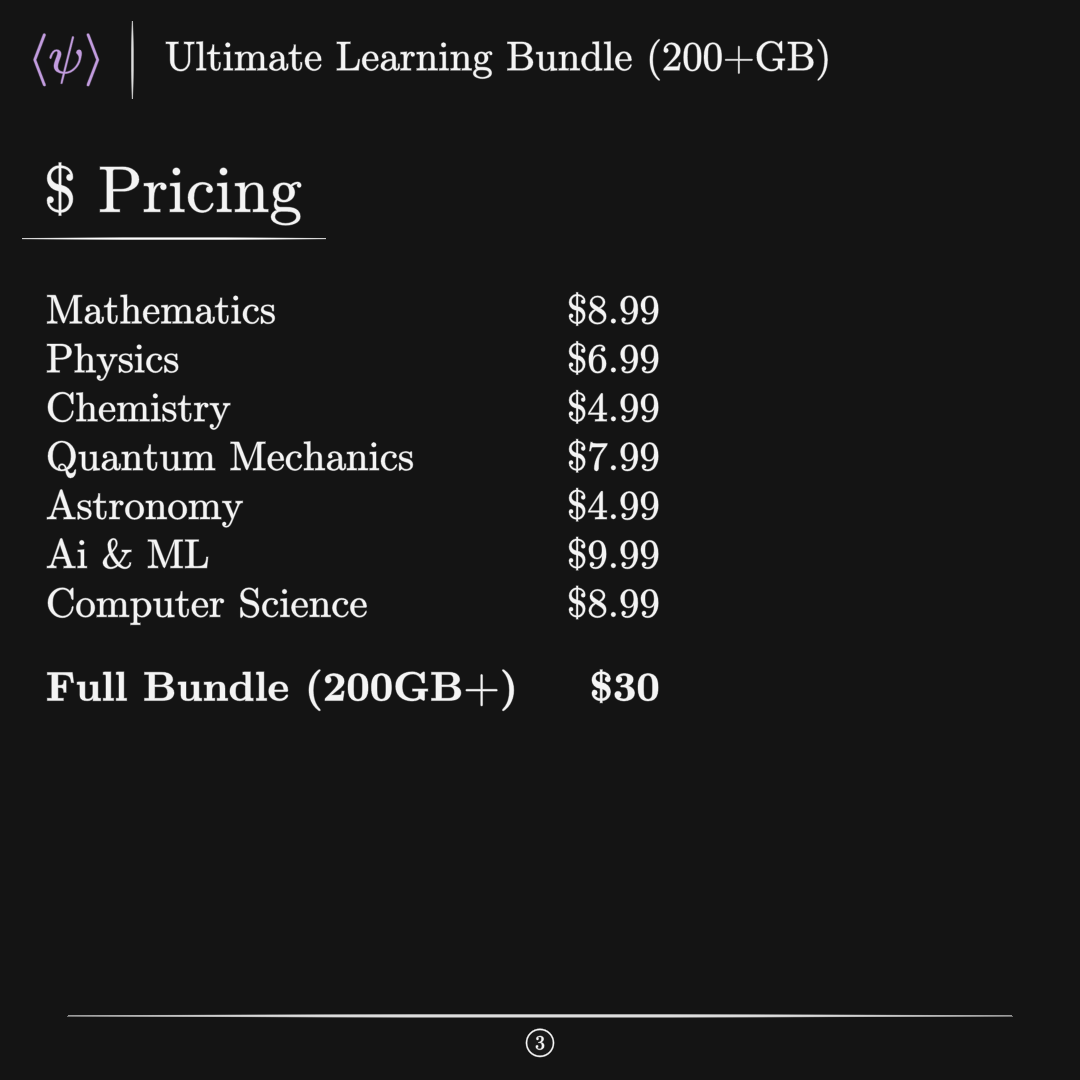
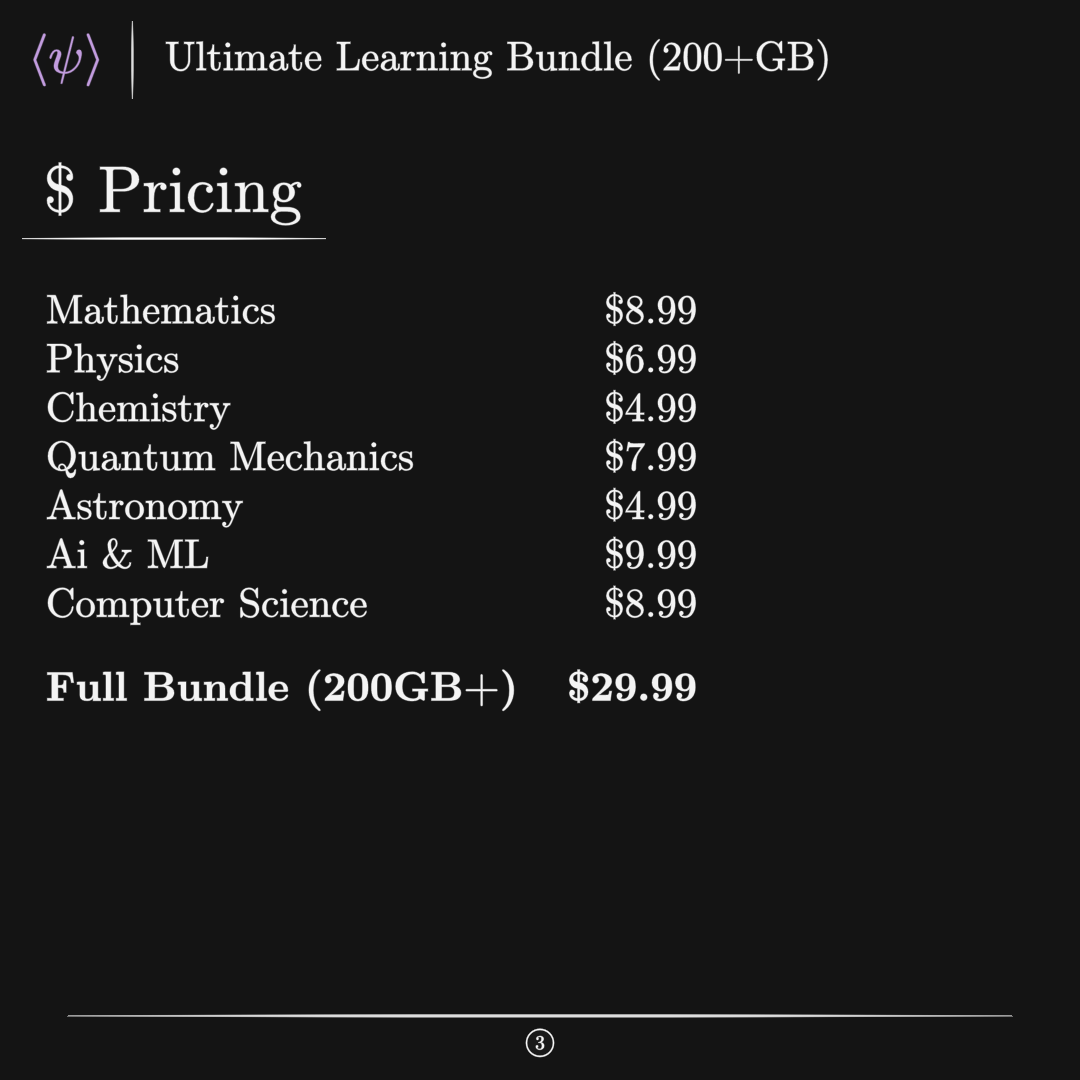
f

Changed region(s): [[0.5194, 0.275, 0.6417, 0.5806], [0.5194, 0.6111, 0.6417, 0.6722]]

diff --git a/test.py b/test.py
@@ -141,7 +141,7 @@ class Pricing(PaidTemplate):
             Astronomy & \$4.99\\
             Ai \& ML & \$9.99\\
             Computer Science & \$8.99\\[0.3cm]
-            \textbf{Full Bundle (200GB+)} & \textbf{\$30}
+            \textbf{Full Bundle (200GB+)} & \textbf{\$29.99}
             \end{tabular}
             """, font_size=30)
         pricing.next_to(price, DOWN, buff=MED_LARGE_BUFF, aligned_edge=LEFT)

diff --git a/latex_cache/working.tex b/latex_cache/working.tex
@@ -35,7 +35,7 @@
             Astronomy & \$4.99\\
             Ai \& ML & \$9.99\\
             Computer Science & \$8.99\\[0.3cm]
-            \textbf{Full Bundle (200GB+)} & \textbf{\$30}
+            \textbf{Full Bundle (200GB+)} & \textbf{\$29.99}
             \end{tabular}
 
 \end{document}
